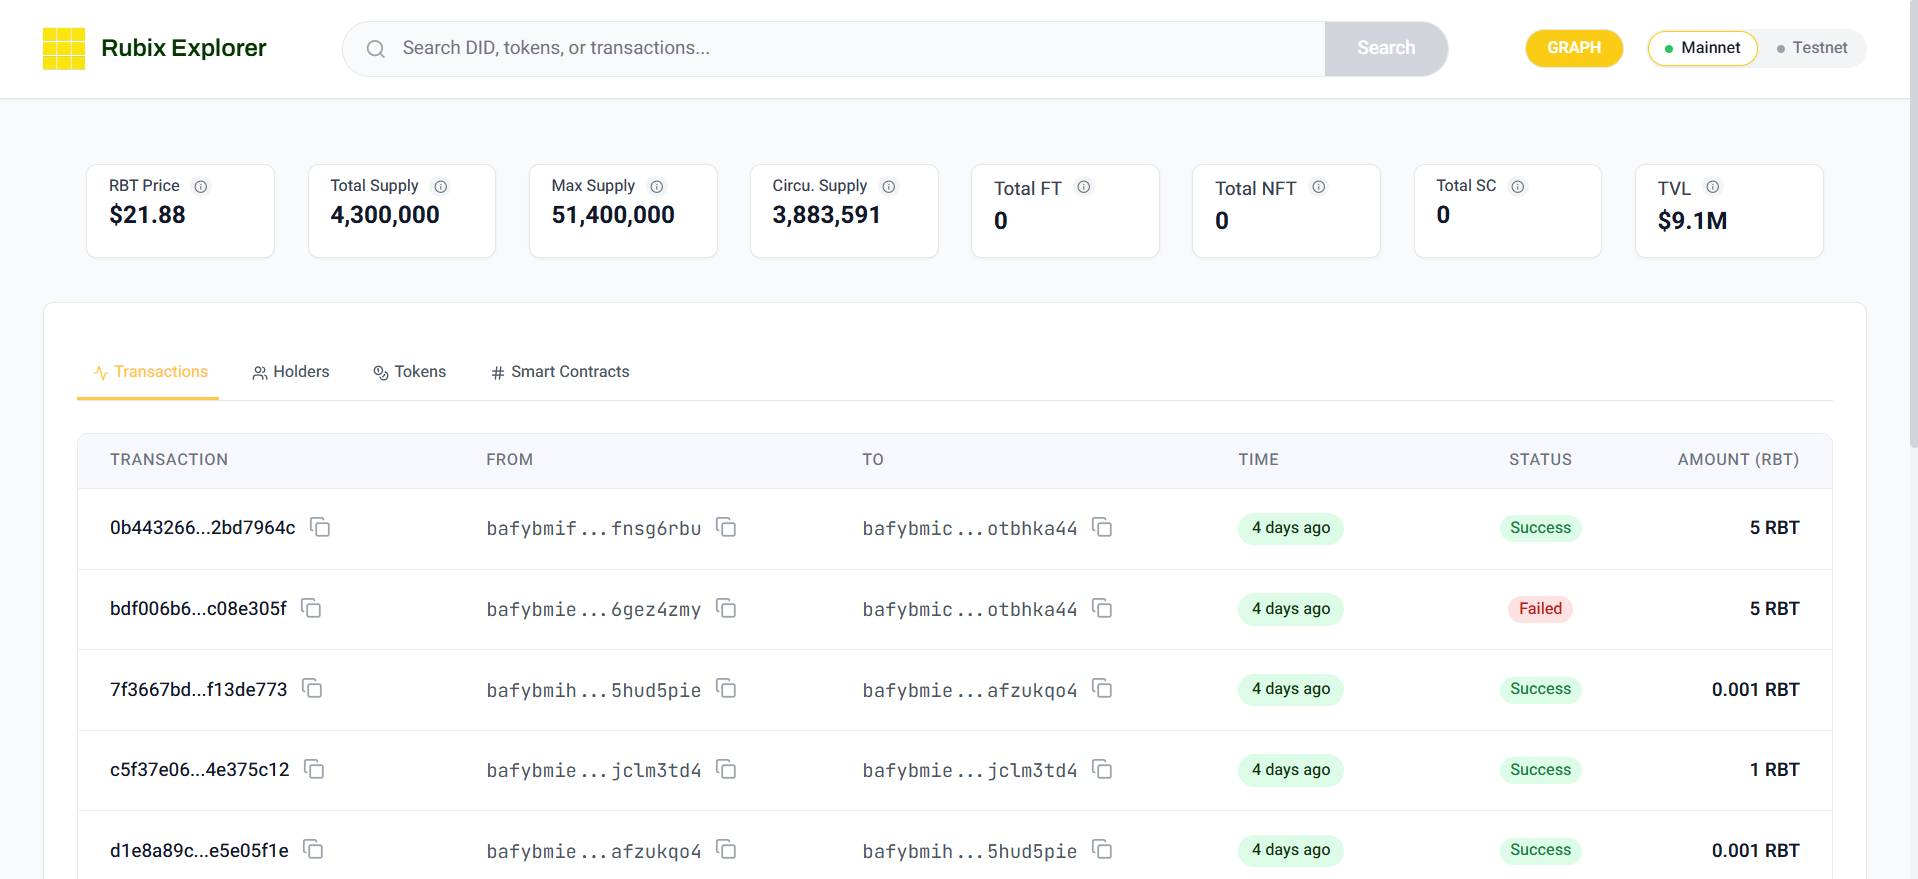
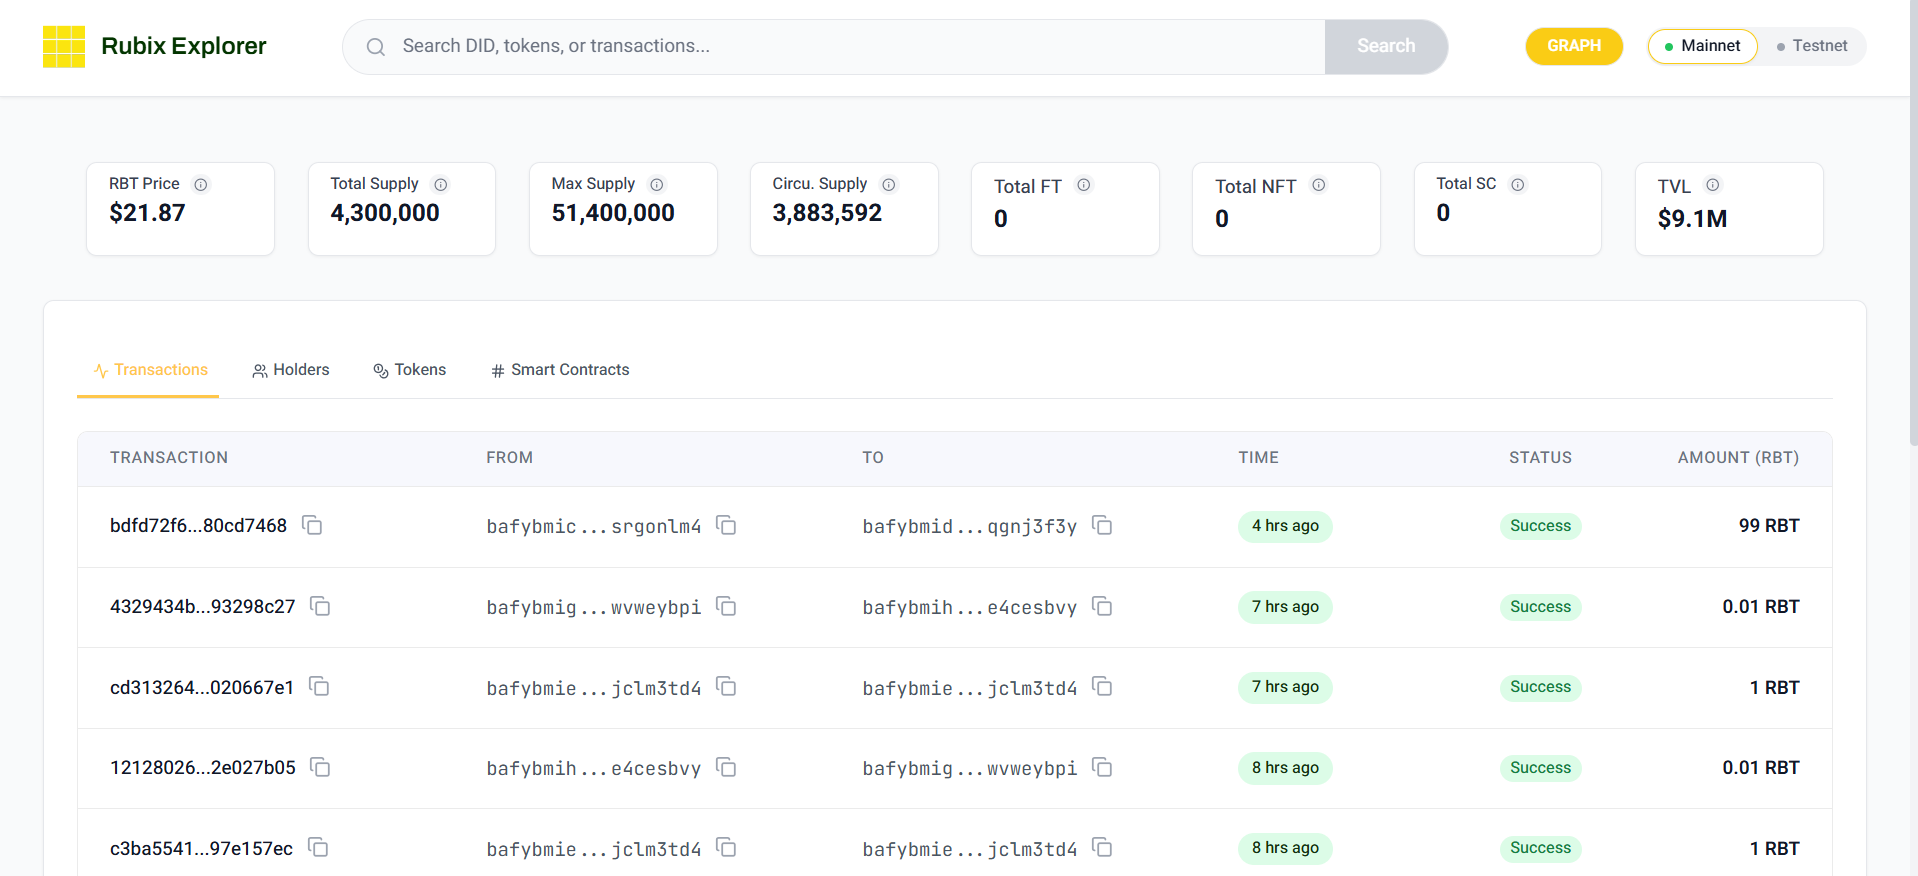
Move unwanted to specific folder and update explorer images

diff --git a/old_files/docs/developer-guides/setup/connect-to-rubix-network.md b/old_files/docs/developer-guides/setup/connect-to-rubix-network.md
@@ -1,0 +1,68 @@
+---
+title: Connect to Rubix Network
+sidebar_label: Connect to Rubix Network
+---
+
+# Connect to the Rubix Network
+
+The Rubix network operates on two primary levels: a public **testnet** for development and a live **mainnet** for production. The network is selected via the `network_mode` field in your node's `config.toml`.
+
+---
+
+### **Connect to Rubix Testnet**
+
+The testnet is a development environment for testing your applications without risking real assets.
+
+1.  **Configure your node:** Set `network_mode` to `"testnet"` in your `config.toml`:
+
+    ```toml
+    [core]
+    node_index = 0
+    network_mode = "testnet"
+    ```
+
+2.  **Start your node:**
+
+    ```bash
+    ./rubixgoplatform run -p node0 -defaultSetup
+    ```
+
+3.  **Verify the `testswarm.key`:** Ensure the `testswarm.key` file is in your node's root folder and matches the official key in the Rubix GitHub repository. This key is crucial for connecting to the test network.
+
+4.  **Get Test RBTs:** Use the Rubix Faucet to get free test tokens.
+    * Go to the [faucet webpage](http://103.209.145.177:4000/).
+    * Enter your DID to receive test tokens.
+
+5.  **Check Your Balance:** Verify the tokens have been received by checking your DID's balance.
+
+    ```bash
+    ./rubixgoplatform getaccountinfo -did <your_did> -port <your_port_number>
+    ```
+
+6.  **Try a Test Transfer:** Practice a token transfer to confirm your node is fully operational on the testnet.
+
+    ```bash
+    ./rubixgoplatform transferrbt -rbtAmount 1.0 -senderAddr <your_did> -receiverAddr <destination_did> -port <your_port_number>
+    ```
+
+---
+
+### **Connect to Rubix Mainnet**
+
+The mainnet is the live, public network where real transactions occur. Once your application is stable on the testnet, you can deploy it to the mainnet.
+
+1.  **Configure your node:** Set `network_mode` to `"mainnet"` in your `config.toml`:
+
+    ```toml
+    [core]
+    node_index = 0
+    network_mode = "mainnet"
+    ```
+
+2.  **Start your node:**
+
+    ```bash
+    ./rubixgoplatform run -p node0
+    ```
+
+3.  **Verify the `swarm.key`:** Ensure the `swarm.key` is in your node's root folder and matches the official key from the Rubix GitHub repository. This key is for connecting to the public mainnet.

diff --git a/old_files/docs/developer-guides/setup/setup-your-subnet.md b/old_files/docs/developer-guides/setup/setup-your-subnet.md
@@ -1,0 +1,39 @@
+---
+title: Set Up Your Subnet
+sidebar_label: Set Up Your Subnet
+---
+
+# Set Up Your Own Subnet 🔒
+
+This is an advanced guide for creating a private, isolated network. This is useful for enterprise applications or private testing environments that require a controlled group of validators.
+
+---
+
+### **Create a Private Swarm Key**
+
+A private subnet requires a unique `swarm.key` to ensure only approved nodes can join.
+
+1.  **Install the Key Generation Tool:** Install the `ipfs-swarm-key-gen` tool.
+
+    ```bash
+    go install [github.com/Kubuxu/go-ipfs-swarm-key-gen/ipfs-swarm-key-gen@latest](https://github.com/Kubuxu/go-ipfs-swarm-key-gen/ipfs-swarm-key-gen@latest)
+    ```
+
+2.  **Generate your `swarm.key`:** Run the following command to create your unique key.
+
+    ```bash
+    ipfs-swarm-key-gen > ~/.ipfs/swarm.key
+    ```
+    * **Note:** If you are not using the default IPFS path, replace `~/.ipfs/` with your custom path.
+
+---
+
+### **Configure and Run your Subnet**
+
+Once you have your private `swarm.key`, you can start your subnet.
+
+1.  **Distribute the Key:** Ensure all nodes that you want to be part of your subnet have a copy of the **same `swarm.key`** in their root directory.
+
+2.  **Start the Nodes:** Start each node as you normally would for the mainnet (without the `-testNet` flag). The presence of the unique `swarm.key` will automatically connect them to your private subnet instead of the public network.
+
+3.  **Confirm Connection:** Check your node logs to verify the network ID and confirm that all your nodes are connected to each other within the private subnet.

diff --git a/old_files/docs/explorer-analytics/network-health-dashboard.md b/old_files/docs/explorer-analytics/network-health-dashboard.md
@@ -1,0 +1,26 @@
+---
+title: Network Health Dashboard
+sidebar_label: Network Health
+---
+
+# Network Health Dashboard
+
+The **Network Dashboard** provides a real-time snapshot of Rubix performance.  
+
+Key metrics include:  
+- Active Validators  
+- Transaction Throughput (TPS)  
+- Subnet activity  
+- Block production status  
+- Network Uptime  
+
+:::note 📸 Screenshot needed
+**Capture:** The network health dashboard (select **Dashboard** from the menu on [explorer.rubix.net](https://explorer.rubix.net)).
+**Save as:** `static/img/explorer-images/network-health-dashboard.png`, then replace this note with `![Network health dashboard](/img/explorer-images/network-health-dashboard.png)`.
+:::
+
+
+## Usage
+1. Open [Rubix Explorer](https://explorer.rubix.net).  
+2. Select **Dashboard** from the menu.  
+3. Monitor validator uptime, TPS, and subnet activity in real time.  

diff --git a/docs/explorer-analytics/did-chain-and-identity-insights.md b/docs/explorer-analytics/did-chain-and-identity-insights.md
@@ -8,14 +8,12 @@ sidebar_label: DIDs
 DIDs (Decentralized Identifiers) are the identity layer of Rubix, each maintaining its own chain.  
 
 To explore a DID, enter it in the Explorer's **search bar** (it accepts DIDs, tokens, or transactions).  
-The result shows:  
-- DID address & metadata  
-- Public keys and updates  
-- On-chain history, including token creation and transactions  
+The **DID Explorer** page shows:  
+- The DID address  
+- A balance summary — **RBT Balance**, **Pledged Value**, **FT Balance**, **NFTs**, and **SC Deployed**  
+- A **Transactions** tab listing the DID's transactions (from / to, time, amount)  
+- An **FT Holdings** tab  
 
-This allows full transparency of identity activities without compromising privacy.  
+This gives a transparent view of a DID's activity and holdings.  
 
-:::note 📸 Screenshot needed
-**Capture:** A DID Explorer result page (search a DID on [explorer.rubix.net](https://explorer.rubix.net)).
-**Save as:** `static/img/explorer-images/did-info.png`, then replace this note with `![DID info](/img/explorer-images/did-info.png)`.
-:::
+![DID info](/img/explorer-images/did-info.png)

diff --git a/old_files/README.md b/old_files/README.md
@@ -1,0 +1,15 @@
+# old_files — archived reference
+
+Docs and images that were **removed from the live site** during the v1.0.1 documentation cleanup (June 2026), kept here for future reference. Original paths are preserved under this folder.
+
+This folder lives **outside `docs/`**, so Docusaurus does not build it — nothing here is published.
+
+## Contents
+
+**Superseded / duplicate doc pages (not in the sidebar):**
+- `docs/explorer-analytics/New folder/` — early explorer drafts
+- `docs/explorer-analytics/did-event-chain.md`, `query-tokenchains.md`, `rbt-tracker.md`, `validator-logs.md`, `network-health-dashboard.md`
+- `docs/developer-guides/setup/connect-to-rubix-network.md`, `setup-your-subnet.md`
+
+**Outdated screenshots (old explorer UI):**
+- `static/img/explorer-images/DID-Info.png`, `explorer-home-1.png`, `explorer-home-trxn-graph.png`, `explorer-home-trxn-list.png`, `smart-contract-info.png`, `trxnID-search.png`

diff --git a/docs/explorer-analytics/explorer-walkthrough.md b/docs/explorer-analytics/explorer-walkthrough.md
@@ -15,7 +15,7 @@ Transaction Explorer: Trace the full lifecycle of any transaction. A dedicated p
 
 Tokenchain Explorer: Unique to Rubix's sharded architecture, this feature allows you to view the immutable history of a single token. By searching for a specific Token ID, you can access a complete list of every transaction involving that token.
 
-DID Explorer: As the fundamental identity primitive on the Rubix network, each DID has a detailed profile. Search for a DID to view its unique address, a hash of its creation image file, and associated public keys. The page also lists the DID's complete on-chain history.
+DID Explorer: As the fundamental identity primitive on the Rubix network, each DID has a detailed profile. Search for a DID to view its address, a balance summary (RBT, pledged value, FT, NFTs, and smart contracts deployed), and its transaction history.
 
 ## Testnet
 